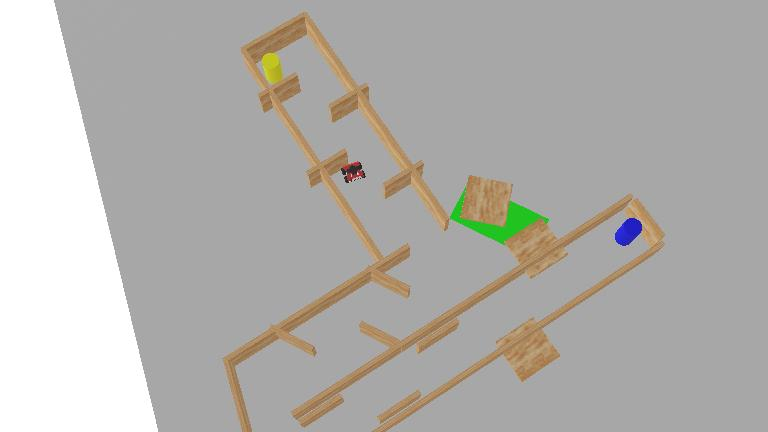
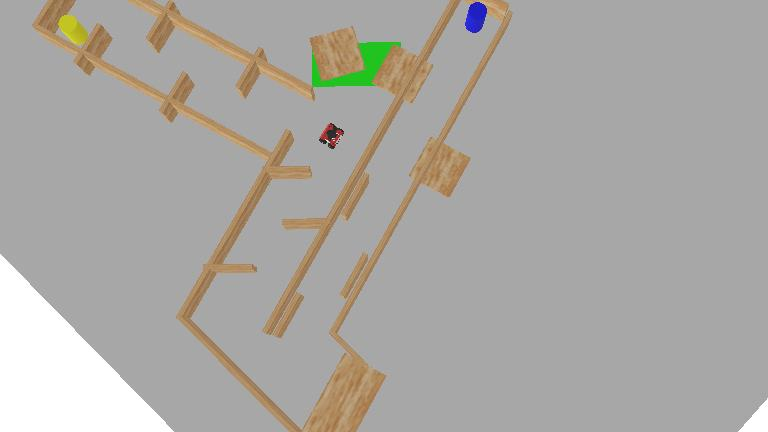
improved a bit the obstacel avoidance

diff --git a/controllers/my_controller/exploration.py b/controllers/my_controller/exploration.py
@@ -44,6 +44,7 @@ from config import (
     EXPLORE_SCAN_TURN_TICKS, EXPLORE_SCAN_TURN_WHEEL, EXPLORE_FORGET_VISITED_EVERY,
     SLAM_GREEN_PERIOD_STEPS, GREEN_MARK_ENABLED,
     PILLAR_BIAS_WEIGHT, OBSTACLE_RECOVER_TURN_AFTER,
+    FOLLOW_GOVERNOR_FULL_M, FOLLOW_GOVERNOR_MIN_M, FOLLOW_GOVERNOR_ARC_DEG,
 )
 
 # ── Reference MyRobot state (the fields exploration touches) ──────────────────
@@ -187,6 +188,27 @@ def _get_lidar_front_min_dist(angle_range_deg=30):
     if len(front_distances) == 0:
         return float("inf")
     return float(np.min(front_distances))
+
+
+def _govern_speed(v):
+    """Scale a commanded forward speed by live front-lidar clearance.
+
+    DWA only avoids MAPPED obstacles, so in unknown space it commands full speed
+    straight at unmapped walls until the binary bumper trips too late.  This caps
+    v by what the lidar actually sees ahead: full above FOLLOW_GOVERNOR_FULL_M,
+    linearly down to 0 at FOLLOW_GOVERNOR_MIN_M (the bumper/recover own the last
+    ~0.10 m).  Only forward speed is governed — the caller's w is untouched, so the
+    robot can still rotate toward an opening while slowed.
+    """
+    if v <= 0.0:
+        return v
+    front = _get_lidar_front_min_dist(angle_range_deg=FOLLOW_GOVERNOR_ARC_DEG)
+    if not math.isfinite(front) or front >= FOLLOW_GOVERNOR_FULL_M:
+        return v
+    if front <= FOLLOW_GOVERNOR_MIN_M:
+        return 0.0
+    scale = (front - FOLLOW_GOVERNOR_MIN_M) / (FOLLOW_GOVERNOR_FULL_M - FOLLOW_GOVERNOR_MIN_M)
+    return v * scale
 
 
 def _obstacle_in_front():
@@ -520,6 +542,7 @@ def _follow_local_target(map_target):
     world_target = np.array(_convert_to_world_coordinates(map_target[0], map_target[1]))
     pose = localization.get_pose()
     v, w = following.dwa_velocity(pose, world_target, devices.timestep / 1000.0)
+    v = _govern_speed(v)          # live-lidar brake so we don't charge unmapped walls
     motion.drive_twist(v, w)
     return False, False
 

diff --git a/controllers/my_controller/config.py b/controllers/my_controller/config.py
@@ -149,6 +149,16 @@ DWA_CLEARANCE_WEIGHT = 2.0   # reward staying away from obstacles
 # below the robot's half-width.
 DWA_ROBOT_CLEAR_PX   = 3.0   # robot half-width in cells (~0.10 m); keep this much wall clearance
 DWA_CLEAR_PENALTY    = 4.0   # score penalty per cell of encroachment below DWA_ROBOT_CLEAR_PX
+# Live-lidar speed governor: DWA only avoids MAPPED obstacles, so while exploring
+# UNKNOWN space (treated as free) the robot charges unmapped walls at full speed
+# until the binary bumper trips too late -> ram/reverse/replan thrash.  Scale the
+# commanded forward speed by the live front-lidar clearance so it decelerates
+# smoothly into ANY obstacle (mapped or not) before the bumper, and the extra slow
+# ticks let the map register the wall so DWA can steer around it.  Turning (w) is
+# never governed, so it can still rotate toward an opening while slowed.
+FOLLOW_GOVERNOR_FULL_M = 0.45  # front clearance (m) at/above which full speed is allowed
+FOLLOW_GOVERNOR_MIN_M  = 0.15  # front clearance (m) at/below which forward speed is cut to 0
+FOLLOW_GOVERNOR_ARC_DEG = 25   # half-arc (deg) of the front lidar cone the governor watches
 
 PATH_FOLLOWING_TARGET_REACH_DIST_PX = 4   # px — waypoint considered reached within this
 FOLLOW_WAYPOINT_STRIDE = 5                # step ahead this many waypoints once one is reached (AURE)
